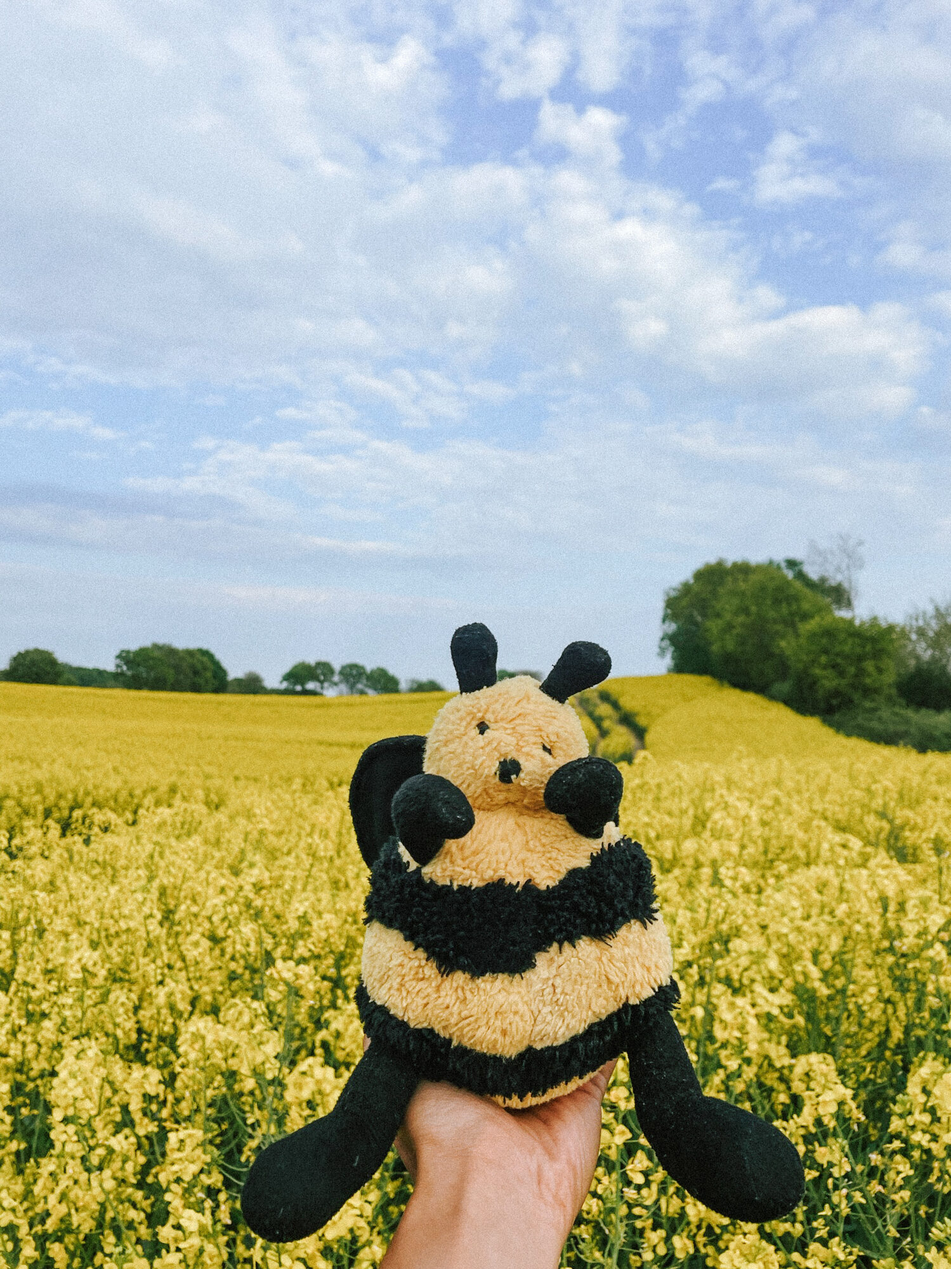
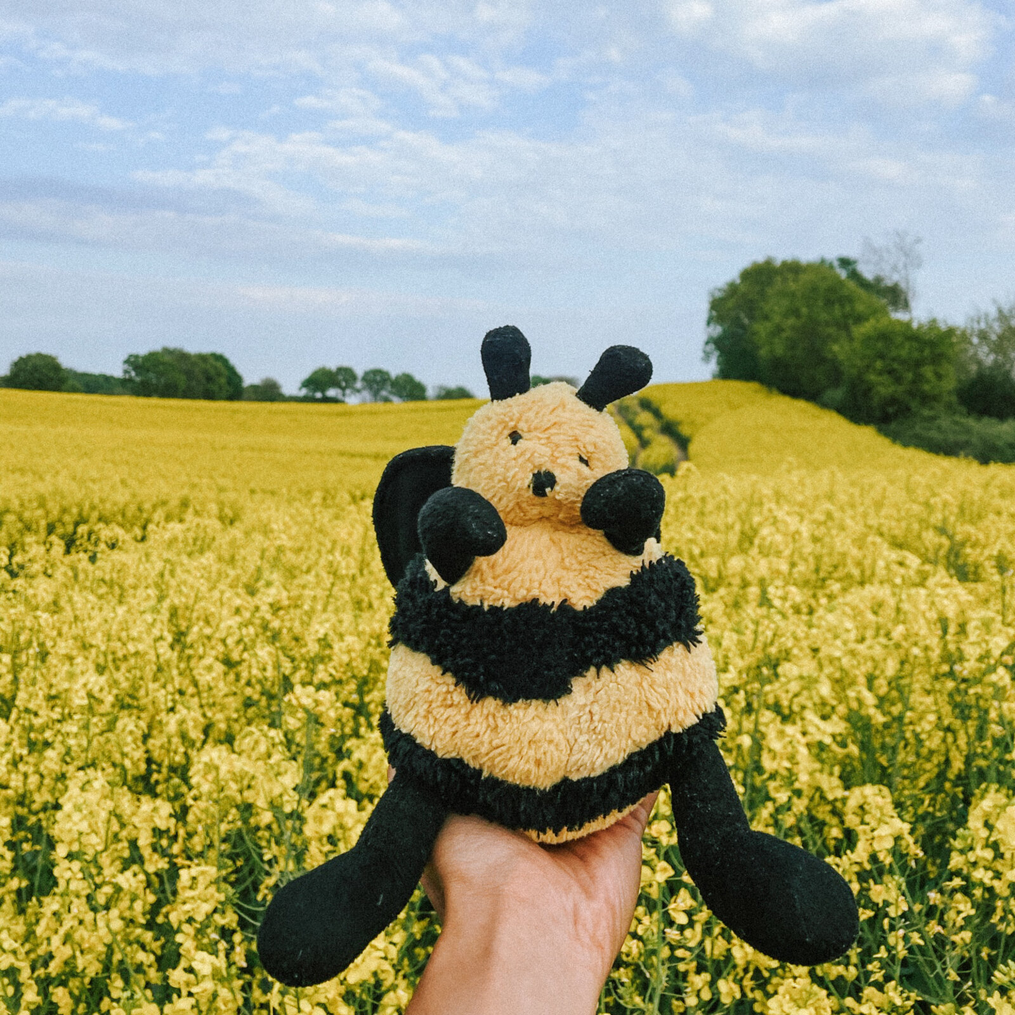
Fix crew photo cropping and add real preview photos to Home
- Humbär's stacked photos now render at their natural portrait aspect
  ratio instead of being force-cropped into an awkward 4:3 box.
- Re-cropped Bumblepuutz's photo so the plush bee is actually centered
  in the circular frame instead of mostly showing sky.
- Home page's Studio and Shop preview cards now use real photos
  (Evelyne painting in Humbär, the sticker collection) instead of
  placeholder illustrations.

diff --git a/src/app/crew/page.tsx b/src/app/crew/page.tsx
@@ -33,14 +33,14 @@ export default async function CrewPage() {
                 {member.photos.map((photo) => (
                   <div
                     key={photo}
-                    className="relative w-full aspect-[4/3] rounded-2xl overflow-hidden border-4 border-ivory shadow-sm"
+                    className="rounded-2xl overflow-hidden border-4 border-ivory shadow-sm"
                   >
-                    <Image
+                    {/* eslint-disable-next-line @next/next/no-img-element */}
+                    <img
                       src={photo}
                       alt={member.name}
-                      fill
-                      sizes="256px"
-                      className="object-cover"
+                      loading="lazy"
+                      className="block w-full h-auto"
                     />
                   </div>
                 ))}

diff --git a/src/app/page.tsx b/src/app/page.tsx
@@ -23,13 +23,13 @@ const PREVIEW_CARDS = [
     href: "/studio",
     label: "Studio",
     sub: "Evelyne's art",
-    image: "/images/studio/placeholder-portfolio.svg",
+    image: "/images/studio/evelyne-in-humbaer.webp",
   },
   {
     href: "/shop",
     label: "Shop",
     sub: "Squirrel goods",
-    image: "/images/shop/placeholder-product.svg",
+    image: "/images/studio/stickers-on-table.webp",
   },
   {
     href: "/crew",
